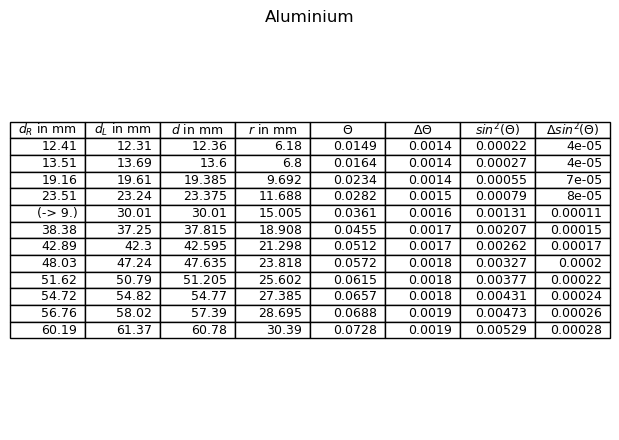
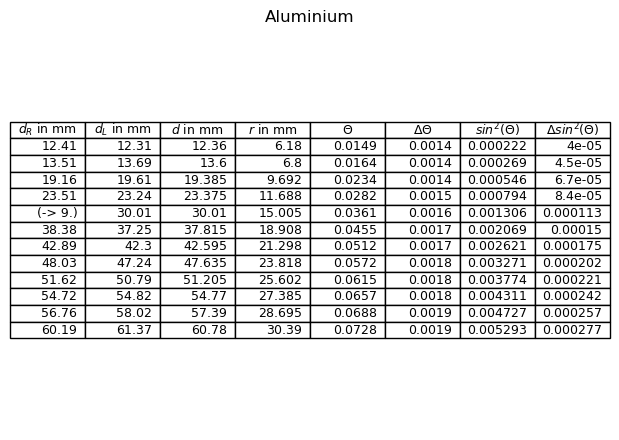
Elo

Changed region(s): [[0.7367, 0.325, 0.9822, 0.7682]]

diff --git a/FP/2.-ELO.py b/FP/2.-ELO.py
@@ -388,8 +388,8 @@ for i in range(3):
     b.append(np.around(r[i],3))
     b.append(np.around(theta[i],4))
     b.append(np.around(theta_err[i],4))
-    b.append(np.around(sintq[i],5))
-    b.append(np.around(sintq_err[i],5))
+    b.append(np.around(sintq[i],6))
+    b.append(np.around(sintq_err[i],6))
     labels = ["$d_{R}$ in mm","$d_{L}$ in mm","$d$ in mm","$r$ in mm","$\Theta$","$\Delta \Theta$","$sin^2(\Theta)$","$\Delta sin^2(\Theta)$"]
     b = np.array(b).T        
     fig.append(plt.figure())
@@ -401,4 +401,35 @@ for i in range(3):
 """ Plot speichern """
 for i in range(3):
     fig[i].savefig("./2.Plots/%s_%s_table.png"%(versuchsname,stri[i]), bbox_inches='tight', dpi=100) # Bild als png Datei in Ordner Plots gespeichert
+    
+""" Weitere Rechnungen """
+fig = []
+ax = []
+maxj = [10, 15, 23]
+for i in range(3):
+    num = min(len(sintq[i]),3)
+    sample = []
+    labels = []
+    labels.append("Divisor")
+    for j in range(num):
+        sample.append(sintq[i][j])
+        sample.append(sintq_err[i][j])
+        labels.append(f"$sin_{j+1}^2(\Theta)$")
+        labels.append(f"$\Delta sin_{j+1}^2(\Theta)$")
+    sample = np.array(sample)
+    b = []
+    for j in range(1,maxj[i]):
+        b.append([j] + np.around(sample/j,8).tolist())
+    fig.append(plt.figure())
+    ax.append(fig[i].add_axes([0,0,1,1]))
+    ax[i].table(cellText=b,colLabels=labels,loc='center',rowLoc='center')
+    ax[i].axis("off")
+    ax[i].set_title(f"{stri[i]}")
+    
+""" Plot speichern """
+for i in range(3):
+    fig[i].savefig("./2.Plots/%s_%s_sin_table.png"%(versuchsname,stri[i]), bbox_inches='tight', dpi=100) # Bild als png Datei in Ordner Plots gespeichert
+    
+    
+
 
